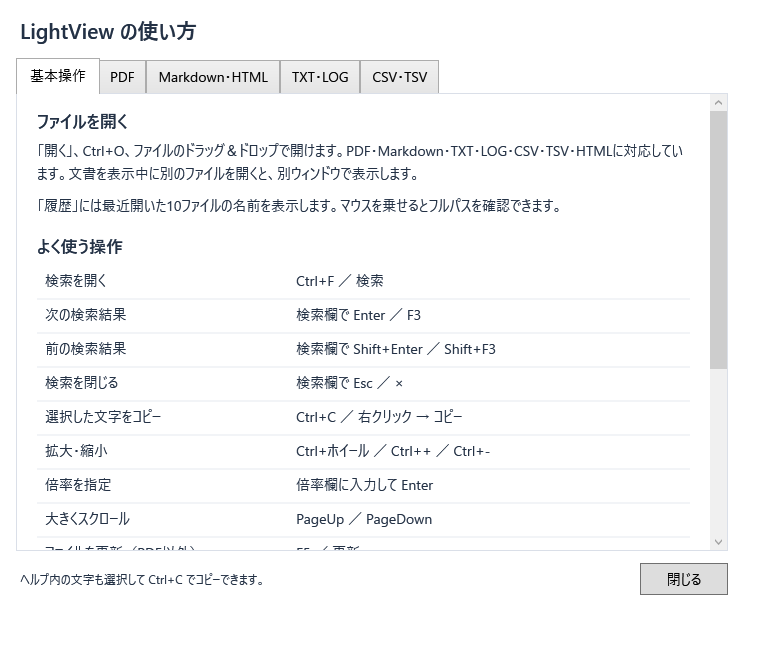
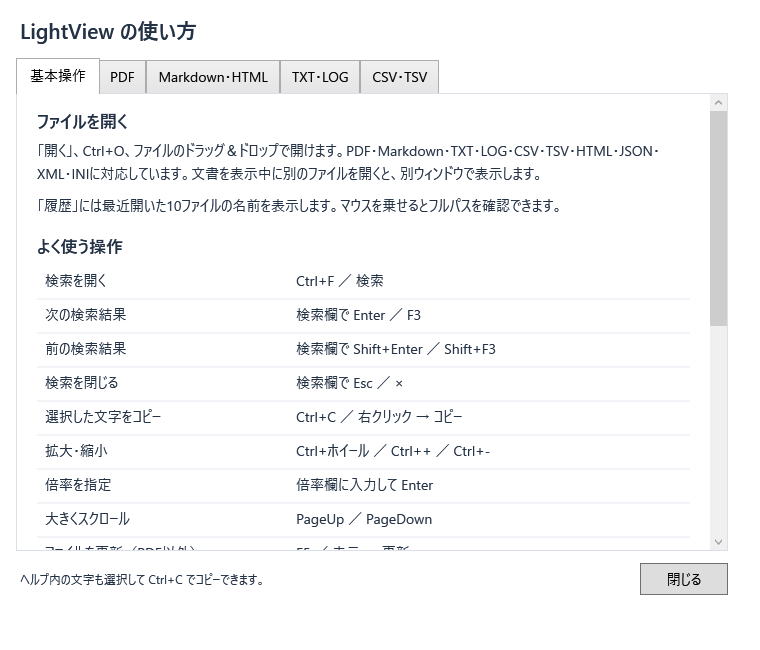
Publish LightView v0.3.0 reader features and compact menus

Changed region(s): [[0.0303, 0.2462, 0.6961, 0.2769], [0.9079, 0.4923, 0.9684, 0.5846], [0.8171, 0.2154, 0.9079, 0.2462]]

diff --git a/CHANGELOG.md b/CHANGELOG.md
@@ -1,5 +1,18 @@
 # 変更履歴
 
+## v0.3.0 — 2026-10-11
+
+- 専用操作を「表示」「…」へまとめ、狭いウィンドウでもツールバーを1段に整理。
+- 読書位置と倍率の復元、戻る／進む、名前付きの個人しおりを追加。
+- PDFの単語選択とShift+クリックによる範囲延長、指定ページ範囲のOCRに対応。
+- JSON・XML・INIの色分け、文字コード選択、長い行の折り返しを追加。
+- CSV・TSVの絞り込みと並べ替えに対応。元の行番号を表示し、元ファイルは変更しません。
+- 32MiB以上のテキスト・表を索引化。画面外も全文検索でき、大きいテキストの全文選択・コピーにも対応。
+- 検索結果一覧を差分更新し、LOG追記時には変わった末尾だけを検索。非PDFの検索も読書位置から開始。
+- EXE＋補助フォルダ構成とReadyToRunを維持。.NET・WebView2 Runtimeは同梱しません。
+
+Windows 11の隔離デスクトップで691項目を検査。文書の原本は変更せず、ソースコードは引き続き非公開で管理します。
+
 ## v0.2.5 — 2026-10-10
 
 - 起動フォルダを `LightView.exe` と補助フォルダ `_support` の2項目に整理。
